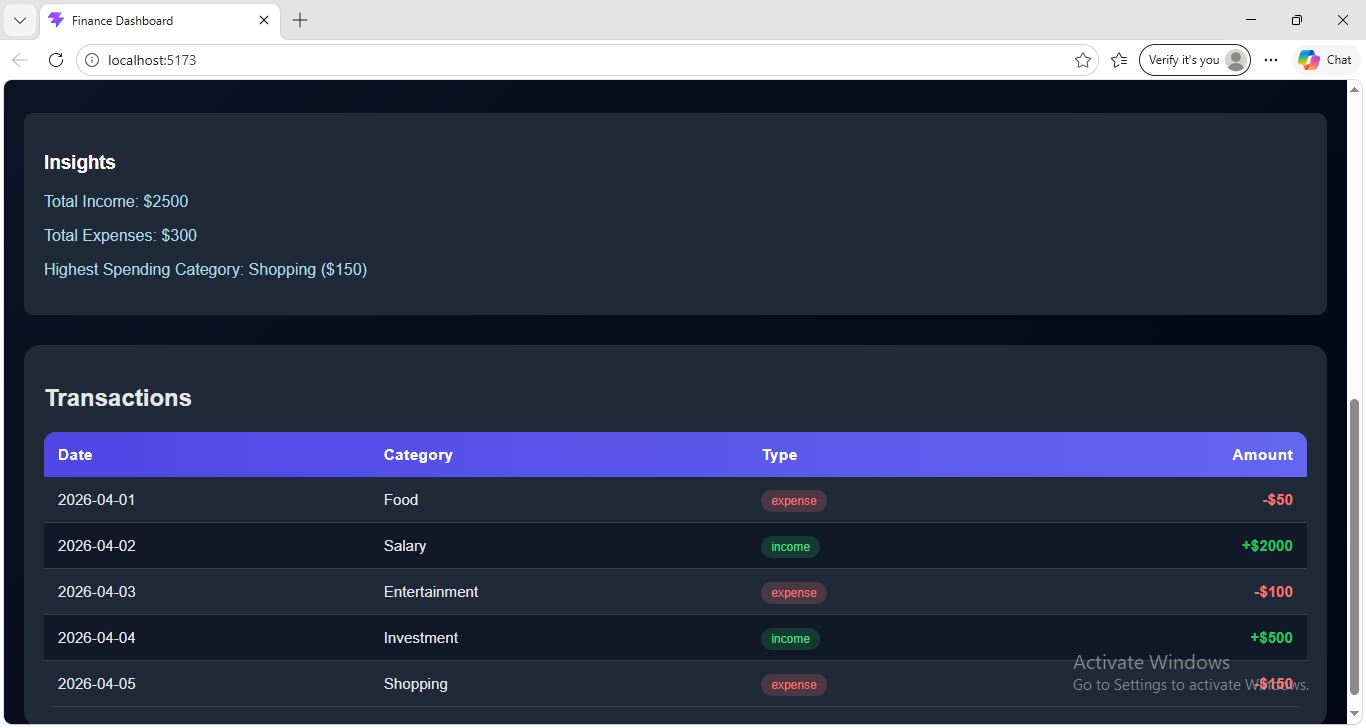
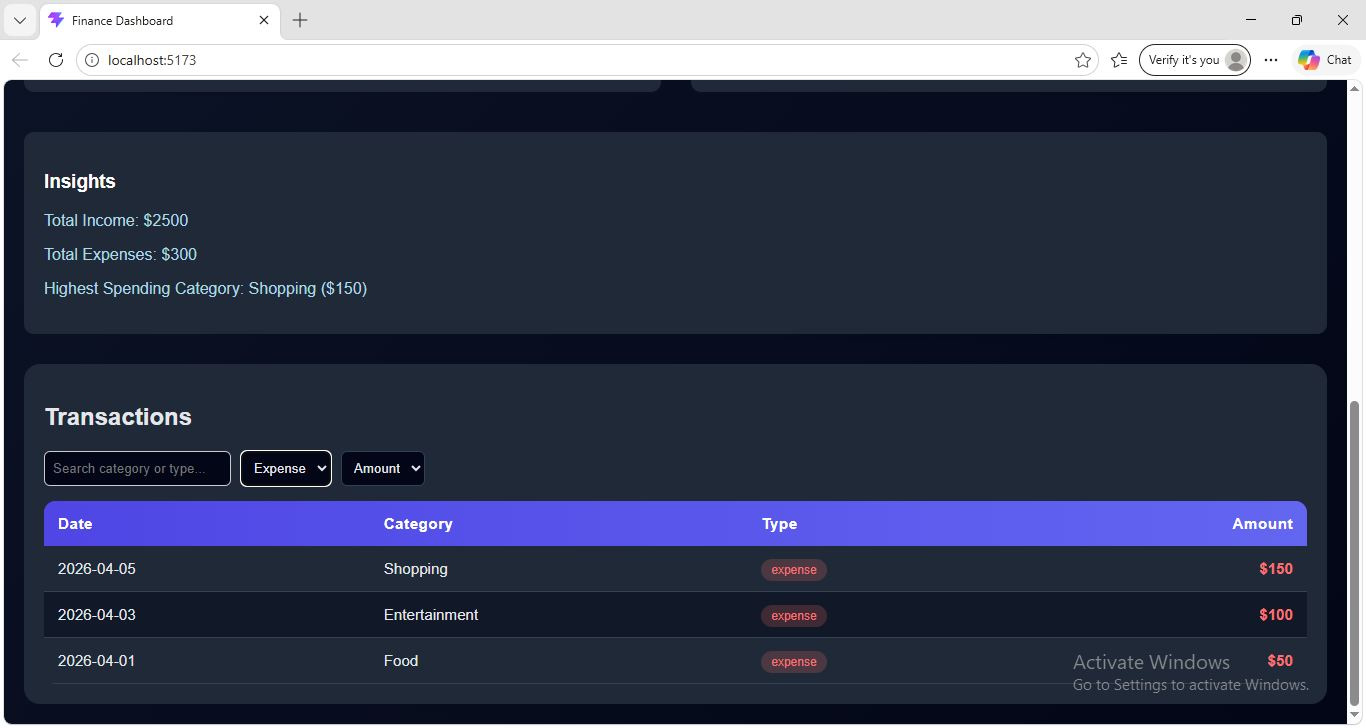
Sorting & Searching element added

Changed region(s): [[0.0, 0.2115, 0.9839, 0.9973], [0.0615, 0.0907, 0.9839, 0.1813], [0.9839, 0.9368, 1.0, 0.967]]

diff --git a/src/components/TransactionTable.jsx b/src/components/TransactionTable.jsx
@@ -1,8 +1,68 @@
-export default function TransactionTable({ transactions, role }) {
+import React, { useState } from "react";
+
+export default function TransactionTable({ transactions = [], role }) {
+  const [search, setSearch] = useState("");
+  const [filterType, setFilterType] = useState("all");
+  const [sortBy, setSortBy] = useState("");
+
+  // 🔍 FILTER + SEARCH
+  const filtered = transactions
+    .filter((t) => {
+      const matchesSearch =
+        t.category.toLowerCase().includes(search.toLowerCase()) ||
+        t.type.toLowerCase().includes(search.toLowerCase());
+
+      const matchesType =
+        filterType === "all" ? true : t.type === filterType;
+
+      return matchesSearch && matchesType;
+    })
+    .sort((a, b) => {
+      if (sortBy === "amount") return b.amount - a.amount;
+      if (sortBy === "date") return new Date(b.date) - new Date(a.date);
+      return 0;
+    });
+
   return (
     <div className="table-container">
       <h2>Transactions</h2>
 
+      {/* 🔎 Controls */}
+      <div style={{ display: "flex", gap: "10px", marginBottom: "15px", flexWrap: "wrap" }}>
+        
+        {/* Search */}
+        <input
+          type="text"
+          placeholder="Search category or type..."
+          value={search}
+          onChange={(e) => setSearch(e.target.value)}
+          style={{ padding: "8px", borderRadius: "6px", border: "1px solid #ccc" }}
+        />
+
+        {/* Filter */}
+        <select
+          value={filterType}
+          onChange={(e) => setFilterType(e.target.value)}
+          style={{ padding: "8px", borderRadius: "6px" }}
+        >
+          <option value="all">All</option>
+          <option value="income">Income</option>
+          <option value="expense">Expense</option>
+        </select>
+
+        {/* Sort */}
+        <select
+          value={sortBy}
+          onChange={(e) => setSortBy(e.target.value)}
+          style={{ padding: "8px", borderRadius: "6px" }}
+        >
+          <option value="">Sort By</option>
+          <option value="amount">Amount</option>
+          <option value="date">Date</option>
+        </select>
+      </div>
+
+      {/* 📋 Table */}
       <table>
         <thead>
           <tr>
@@ -10,30 +70,29 @@ export default function TransactionTable({ transactions, role }) {
             <th>Category</th>
             <th>Type</th>
             <th style={{ textAlign: "right" }}>Amount</th>
-            {role === "admin" && <th style={{ textAlign: "center" }}>Actions</th>}
+            {role === "admin" && <th>Actions</th>}
           </tr>
         </thead>
 
         <tbody>
-          {transactions.map((t, i) => (
+          {filtered.map((t, i) => (
             <tr key={i}>
               <td>{t.date}</td>
               <td>{t.category}</td>
-
-              {/* 🔥 Badge */}
               <td>
                 <span className={`badge ${t.type}`}>
                   {t.type}
                 </span>
               </td>
-
-              {/* 🔥 Colored amount */}
-              <td className={t.type} style={{ textAlign: "right" }}>
-                {t.type === "expense" ? "-" : "+"}${t.amount}
+              <td
+                className={t.type}
+                style={{ textAlign: "right" }}
+              >
+                ${t.amount}
               </td>
 
               {role === "admin" && (
-                <td style={{ textAlign: "center" }}>
+                <td>
                   <button className="edit-btn">Edit</button>
                   <button className="delete-btn">Delete</button>
                 </td>
@@ -42,6 +101,13 @@ export default function TransactionTable({ transactions, role }) {
           ))}
         </tbody>
       </table>
+
+      {/* ❗ Empty State */}
+      {filtered.length === 0 && (
+        <p style={{ marginTop: "10px", color: "gray" }}>
+          No transactions found
+        </p>
+      )}
     </div>
   );
 }

diff --git a/src/index.css b/src/index.css
@@ -233,6 +233,9 @@ button:hover {
   background: #b91c1c;
 }
 
+.chart{
+    background: white;
+}
 
 .chart1 {
   background: white;
@@ -247,4 +250,19 @@ body.dark .chart {
 
 body.dark .ins{
     background: #1f2937;
+}
+
+.table-container input,
+.table-container select {
+  background: white;
+  border: 1px solid #ccc;
+  color: #111;
+}
+
+/* Dark mode */
+body.dark .table-container input,
+body.dark .table-container select {
+  background: #020617;
+  border: 1px solid #334155;
+  color: #e5e7eb;
 }
